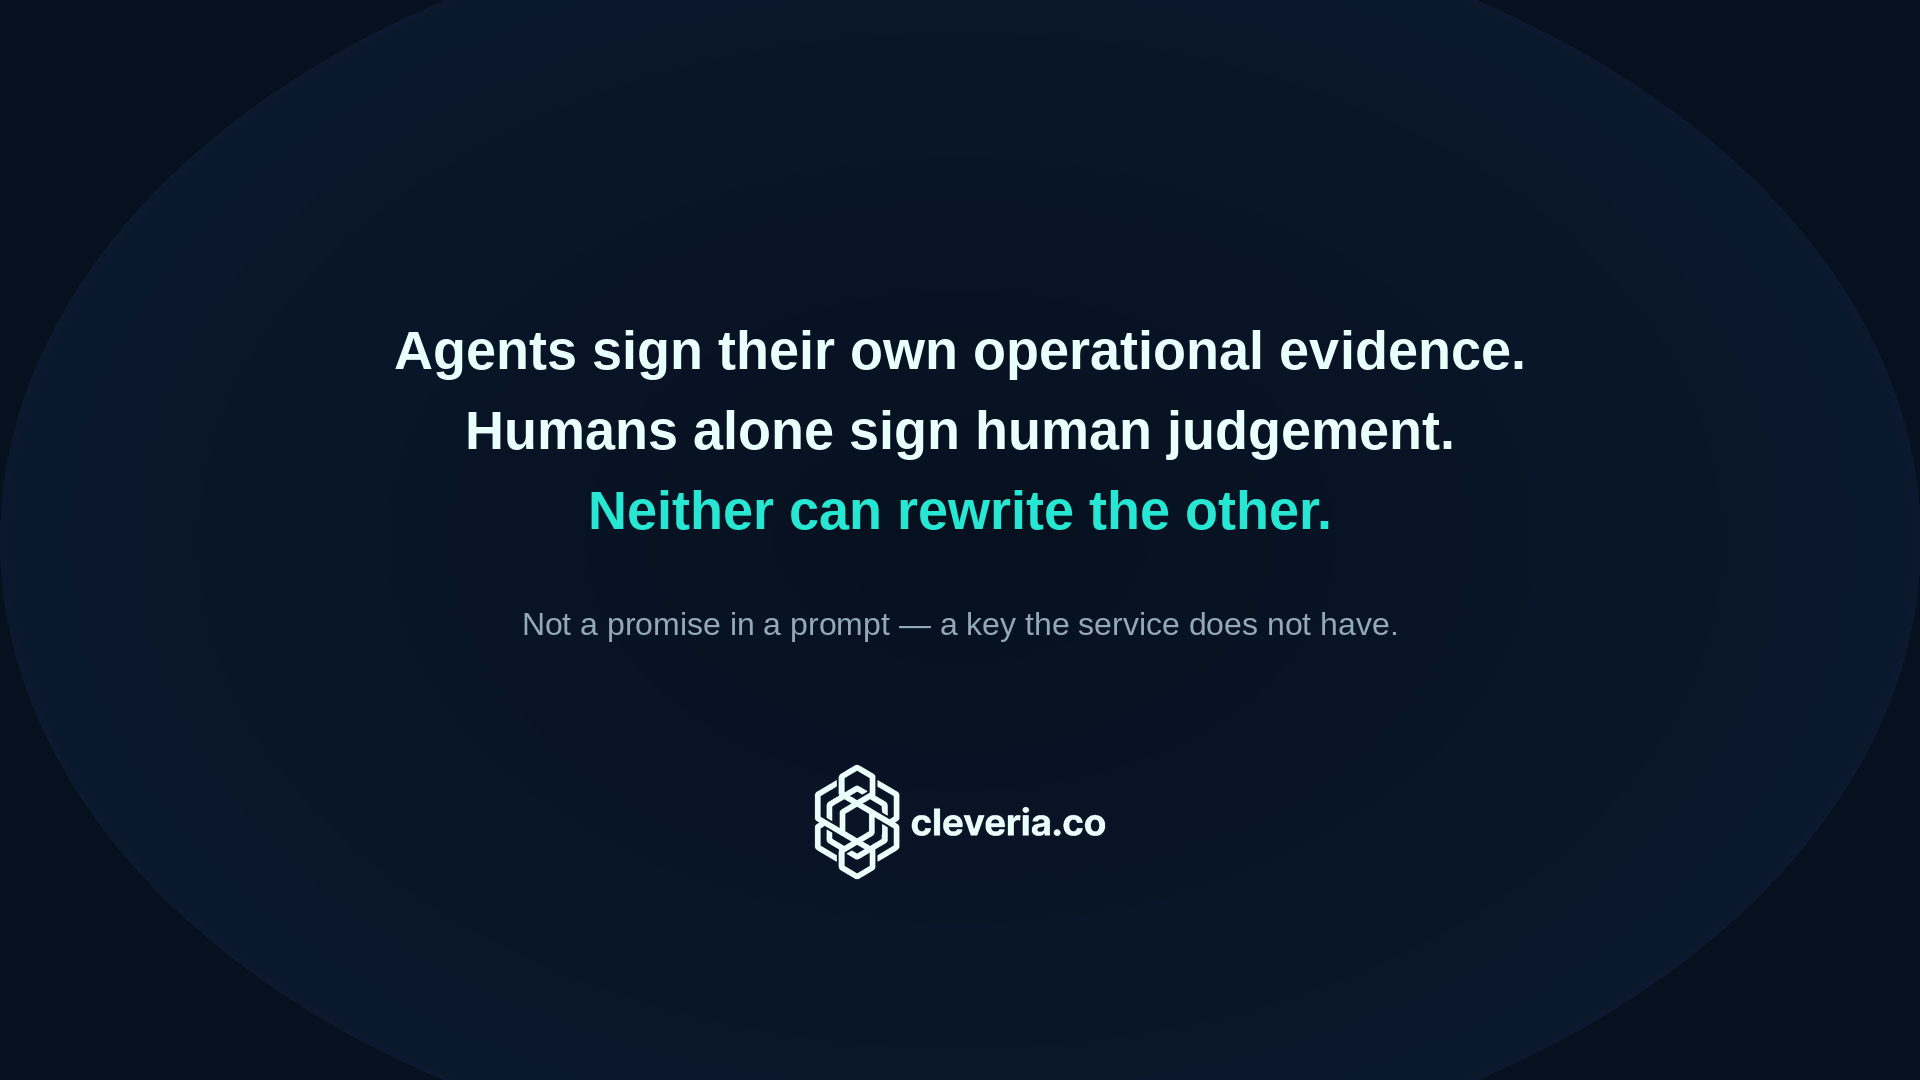
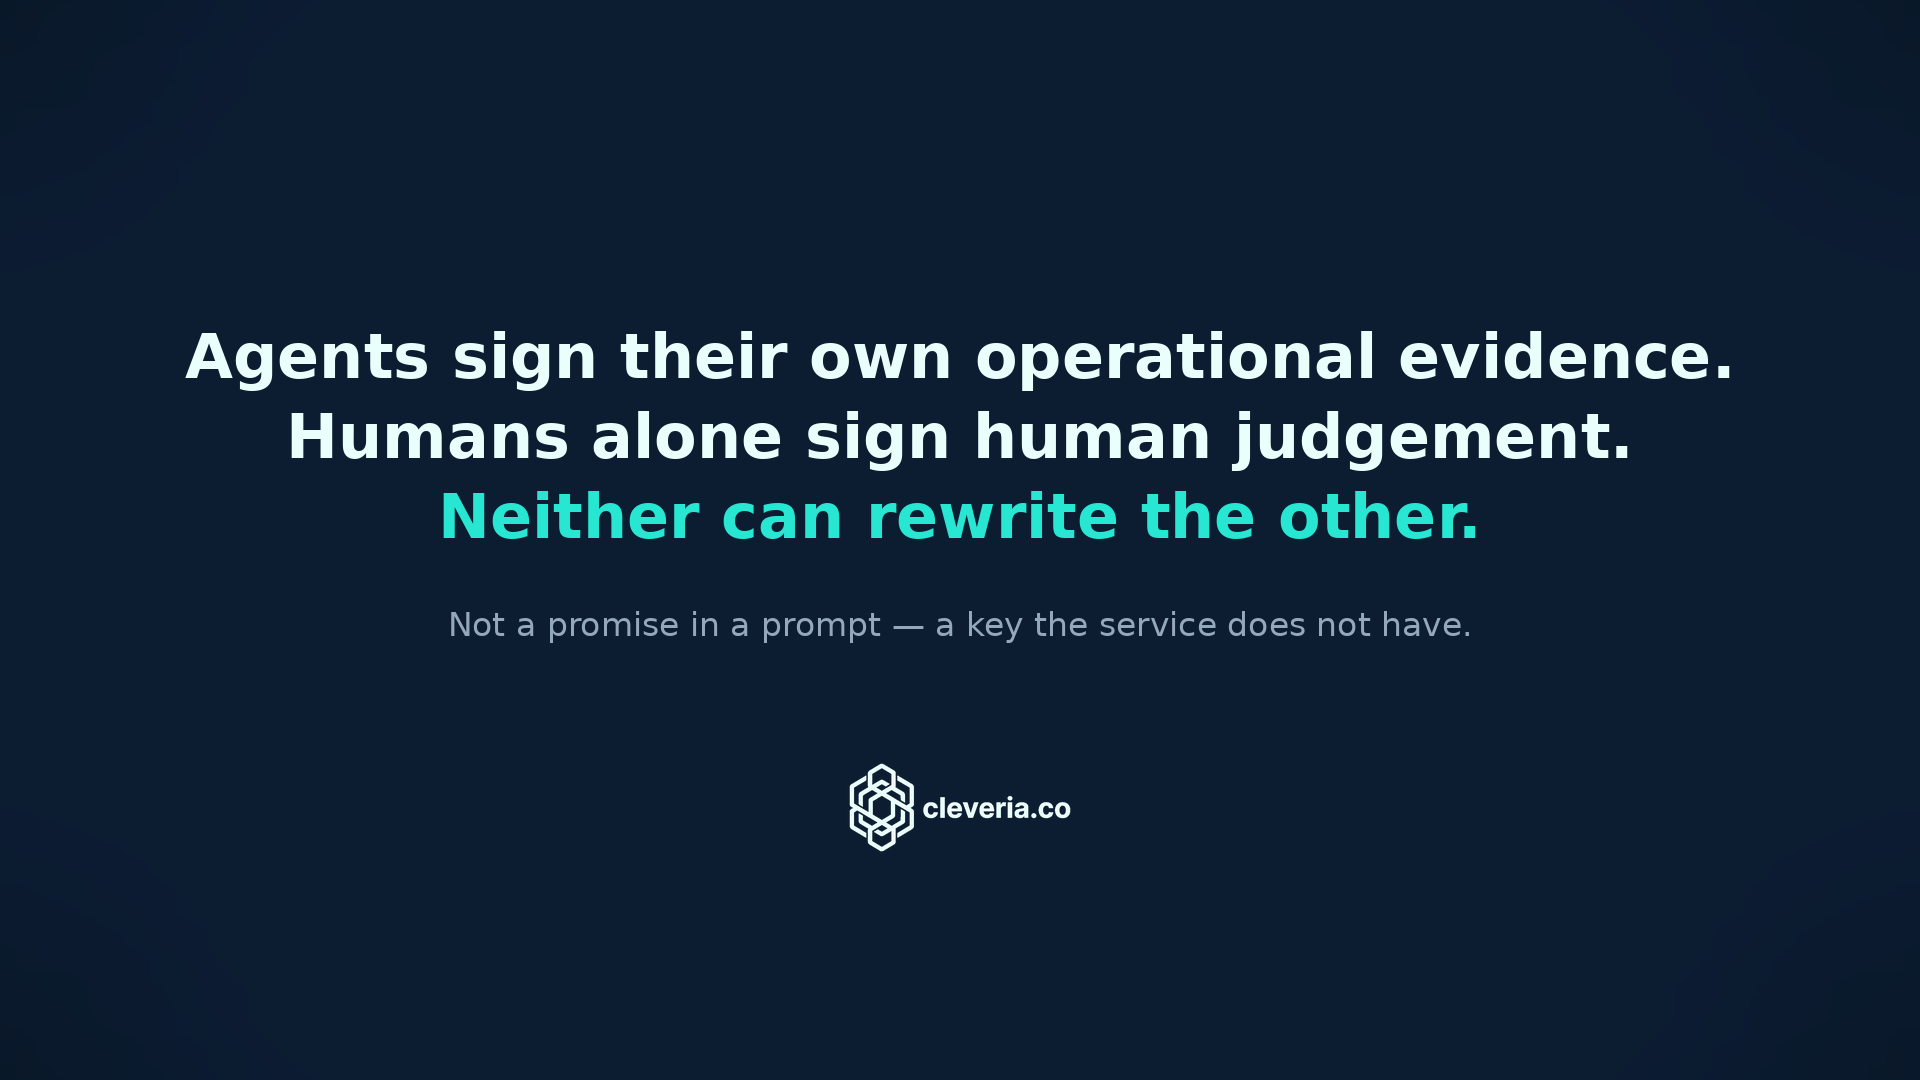
feat(marca): portada y cierre regeneradas con el logotipo sellado, y su generador
frente: clev-cont-enriquecer (ventana 27)

Las dos tarjetas llevaban el logotipo anterior DIBUJADO DENTRO del PNG, hechas a mano el
2026-08-30 y sin generador — el mismo agujero que `generar_rotulos.py` documenta para el
rotulo, y se pago igual: al cambiar el logotipo no habia de donde partir.

Ahora el logotipo se PEGA desde `assets/cleveria-logo-dark.png`, el archivo sellado por el
operador y el mismo que sirve el servicio. Si vuelve a cambiar, se cambia el archivo y se
corre el generador: no hay que redibujar nada.

El texto de las dos tarjetas no se toco.

diff --git a/assets/slides/generar_portada_y_cierre.py b/assets/slides/generar_portada_y_cierre.py
@@ -1,0 +1,96 @@
+#!/usr/bin/env python3
+"""La portada y el cierre del vídeo, con el logotipo sellado por el operador.
+
+POR QUÉ EXISTE. Las dos imágenes se hicieron a mano el 2026-08-30 y su generador no quedó en el
+repositorio — exactamente el mismo agujero que `generar_rotulos.py` documenta para el rótulo, y
+que se pagó igual: al cambiar el logotipo no había de dónde partir. Ahora sí lo hay, y el
+logotipo se lee del archivo sellado en vez de estar dibujado dentro de la imagen.
+
+Búsqueda previa (C1): `grep -rln portada --include='*.py'` no devolvía ningún generador —solo
+`app_real.py` y el panel, que hablan de otra cosa—, y en `assets/slides/` el único generador es
+`generar_rotulos.py`, que hace los rótulos superpuestos y no las tarjetas de 1920×1080. No
+había nada que ampliar, así que esto nace al lado de aquél y con su misma forma.
+
+QUÉ CAMBIA RESPECTO DE LAS IMÁGENES VIEJAS: el logotipo. Las de agosto llevaban el trazo
+anterior, dibujado a mano dentro del PNG. Estas pegan `assets/cleveria-logo-dark.png`, que es la
+versión de tinta clara del logotipo que el operador selló, la misma que sirve el servicio en
+`/ui/cleveria-logo-dark.png`. Si el logotipo vuelve a cambiar, se cambia el archivo y se vuelve
+a correr esto: no hay que redibujar nada.
+
+    python3 assets/slides/generar_portada_y_cierre.py
+"""
+from pathlib import Path
+
+from PIL import Image, ImageDraw, ImageFilter, ImageFont
+
+AQUI = Path(__file__).resolve().parent
+LOGO = AQUI.parent / "cleveria-logo-dark.png"
+ANCHO, ALTO = 1920, 1080
+
+# La paleta de la marca, la misma que el panel de autoridad y el portal.
+NAVY = (6, 17, 31)
+HALO = (13, 30, 52)              # el óvalo de fondo, apenas más claro que el navy
+ICE = (233, 255, 251)
+CYAN = (39, 230, 210)
+SLATE = (147, 168, 184)
+
+NEGRITA = "/usr/share/fonts/dejavu-sans-fonts/DejaVuSans-Bold.ttf"
+NORMAL = "/usr/share/fonts/dejavu-sans-fonts/DejaVuSans.ttf"
+
+
+def lienzo() -> Image.Image:
+    """El fondo: navy y un óvalo difuso que levanta el centro. Sin él la tarjeta es un rectángulo
+    negro y el logotipo flota sin sitio."""
+    im = Image.new("RGB", (ANCHO, ALTO), NAVY)
+    halo = Image.new("RGB", (ANCHO, ALTO), NAVY)
+    ImageDraw.Draw(halo).ellipse([-160, -300, ANCHO + 160, ALTO + 300], fill=HALO)
+    return Image.blend(im, halo.filter(ImageFilter.GaussianBlur(120)), 0.9)
+
+
+def centrado(d, y, texto, fuente, color):
+    ancho = d.textlength(texto, font=fuente)
+    d.text(((ANCHO - ancho) / 2, y), texto, font=fuente, fill=color)
+
+
+def pega_logo(im, y, alto):
+    """El logotipo sellado, a la altura pedida y centrado. Se lee del archivo: no se redibuja."""
+    logo = Image.open(LOGO).convert("RGBA")
+    ancho = round(logo.width * alto / logo.height)
+    logo = logo.resize((ancho, alto), Image.LANCZOS)
+    im.paste(logo, ((ANCHO - ancho) // 2, y), logo)
+
+
+def portada(destino: Path):
+    im = lienzo()
+    d = ImageDraw.Draw(im)
+    pega_logo(im, 175, 205)
+    centrado(d, 490, "An agent can work.", ImageFont.truetype(NEGRITA, 74), ICE)
+    centrado(d, 585, "It cannot sign as a person.", ImageFont.truetype(NEGRITA, 74), CYAN)
+    d.line([(760, 700), (1160, 700)], fill=CYAN, width=2)
+    centrado(d, 745, "Cryptographic authority boundaries for enterprise agent fleets",
+             ImageFont.truetype(NORMAL, 33), SLATE)
+    centrado(d, 808, "Softronica  ·  Google Cloud  ·  All Things Agentic 2026",
+             ImageFont.truetype(NORMAL, 29), SLATE)
+    im.save(destino)
+    print(f"  {destino.name}  ({ANCHO}×{ALTO})  logotipo: {LOGO.name}")
+
+
+def cierre(destino: Path):
+    im = lienzo()
+    d = ImageDraw.Draw(im)
+    grande = ImageFont.truetype(NEGRITA, 62)
+    centrado(d, 320, "Agents sign their own operational evidence.", grande, ICE)
+    centrado(d, 400, "Humans alone sign human judgement.", grande, ICE)
+    centrado(d, 480, "Neither can rewrite the other.", grande, CYAN)
+    centrado(d, 605, "Not a promise in a prompt — a key the service does not have.",
+             ImageFont.truetype(NORMAL, 33), SLATE)
+    pega_logo(im, 760, 95)
+    im.save(destino)
+    print(f"  {destino.name}  ({ANCHO}×{ALTO})  logotipo: {LOGO.name}")
+
+
+if __name__ == "__main__":
+    print("\nPortada y cierre, con el logotipo sellado:")
+    portada(AQUI / "portada.png")
+    cierre(AQUI / "cierre.png")
+    print()
